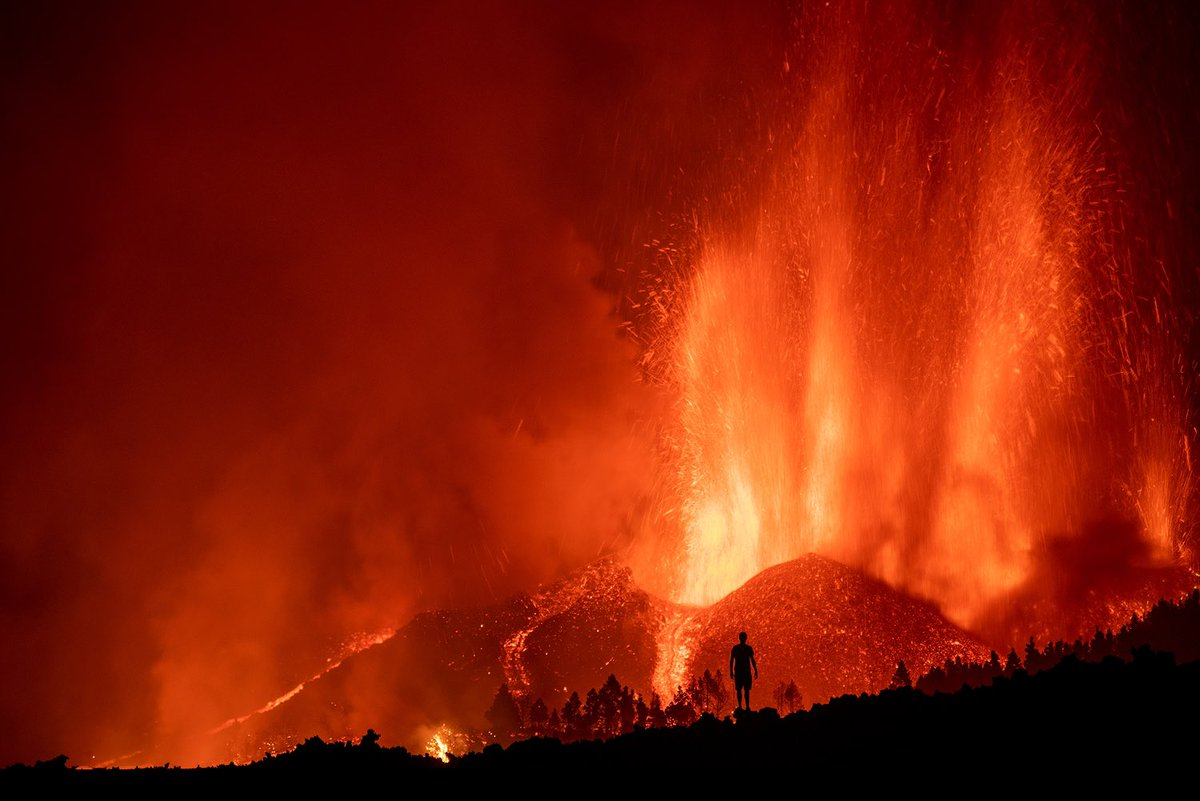
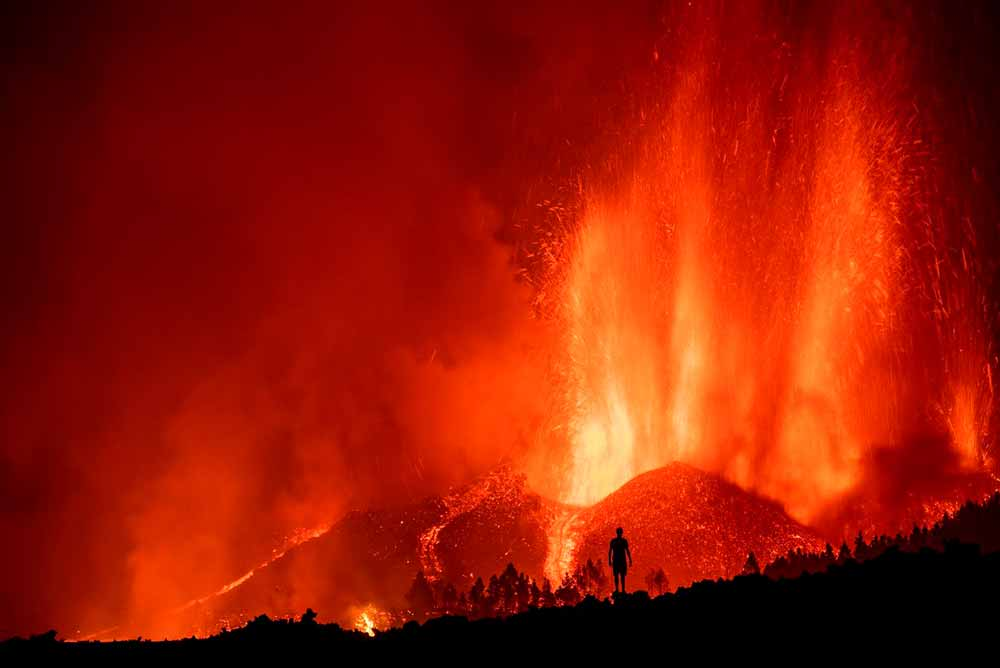
Añadida seccion login y optimizadas las imagenes

Changed region(s): [[0.031, 0.0, 1.0, 0.988], [0.403, 0.1796, 0.434, 0.2096]]

diff --git a/crowdfunding_lp/index.html b/crowdfunding_lp/index.html
@@ -11,12 +11,13 @@
     <h2>Somos dos alumnos de la Universidad Europea de Madrid. Nuestro objetivo es concienciar a la población de problemas en el mundo y, mediante recaudación colectiva, conseguir los fondos suficientes para aportarles solución</h2>
     <nav class="navPrincipal">
         <ul>
-            <li class="ratonMano"><a onclick="bajarFooter()">Contacto</a></li>
+            <li class="ratonMano"><a href="#login">Iniciar sesión</a></li>
+            <li class="ratonMano"><a href="#footer"">Contacto</a></li>
         </ul>
     </nav>
 </header>
 <body>
-    <img src="images/index-banner-ligero.jpg" class="banner">
+    <img src="images/index-banner.jpg" class="banner">
     <div class="proyectos">
         <div class="proyecto">
             <img src="images/image1.jpg">
@@ -50,9 +51,67 @@
                 <img class="foto_comentador" src="images/default-profile.jpg">
             </div>
             <div class="columna_comentario">
-                <p>Nombre del comentador 1</p>
-                <p>Texto del comentario 1</p>
+                <p>Nombre del comentador 2</p>
+                <p>Texto del comentario 2</p>
             </div>
+        </div>
+        <div class="comentario">
+            <div class="columna_foto">
+                <img class="foto_comentador" src="images/default-profile.jpg">
+            </div>
+            <div class="columna_comentario">
+                <p>Nombre del comentador 3</p>
+                <p>Texto del comentario 3</p>
+            </div>
+        </div>
+        <div class="comentario">
+            <div class="columna_foto">
+                <img class="foto_comentador" src="images/default-profile.jpg">
+            </div>
+            <div class="columna_comentario">
+                <p>Nombre del comentador 4</p>
+                <p>Texto del comentario 4</p>
+            </div>
+        </div>
+        <div class="comentario">
+            <div class="columna_foto">
+                <img class="foto_comentador" src="images/default-profile.jpg">
+            </div>
+            <div class="columna_comentario">
+                <p>Nombre del comentador 5</p>
+                <p>Texto del comentario 5</p>
+            </div>
+        </div>
+        <div class="comentario">
+            <div class="columna_foto">
+                <img class="foto_comentador" src="images/default-profile.jpg">
+            </div>
+            <div class="columna_comentario">
+                <p>Nombre del comentador 6</p>
+                <p>Texto del comentario 6</p>
+            </div>
+        </div>
+    </section>
+    <section class="login" id="login">
+        <div class="columnaLogin">
+            <h3>Inicia sesión para añadir un comentario</h3>
+            <form action="bienvenida.php" method="post">
+                Usuario: <input type="text" name="nombre"/>
+                <br><br>
+                Contraseña: <input type="text" name="contrasena"/>
+                <br><br>
+                <input class="botonForm" type="submit" value="Enviar"/>
+            </form>
+        </div>
+        <div class="columnaLogin">
+            <h3>¿No tienes cuenta? Registrate ahora</h3>
+            <form action="bienvenida.php" method="post">
+                Usuario: <input type="text" name="nombre"/>
+                <br><br>
+                Contraseña: <input type="text" name="contrasena"/>
+                <br><br>
+                <input class="botonForm" type="submit" value="Enviar"/>
+            </form>
         </div>
     </section>
 </body>

diff --git a/crowdfunding_lp/css/styleIndex.css b/crowdfunding_lp/css/styleIndex.css
@@ -1,7 +1,6 @@
 :root
 {
     --nuestroColor: rgb(140, 230, 190);
-    --otroColor: #929090;
 }
 
 body
@@ -27,22 +26,30 @@ h2
 .navPrincipal
 {
     background-color: var(--nuestroColor);
+    text-align: center;
+}
+
+.navPrincipal ul
+{   
+    margin: 0;
+    padding: 0;
 }
 
 .navPrincipal li
 {
-    margin-left: auto;
-    margin-right: auto;
-    text-align: center;
-    width: 20%;
-    padding-top: 5px;
-    padding-bottom: 5px;
-    list-style: none;
+    display: inline;
+}
+
+.navPrincipal a
+{
+    padding: 20vh 3vw;
+    color: black;
+    text-decoration: none;
 }
 
 .navPrincipal li:hover
 {
-    background-color: white;
+    background-color: #def1f8;
 }
 
 .ratonMano
@@ -52,7 +59,7 @@ h2
 
 .banner
 {
-    height: 50vh;
+    height: 400px;
     width: 100%;
     object-fit: cover;
 }
@@ -78,12 +85,12 @@ h2
     min-width: 250px;
     max-width: 250px;
     margin-top: 1vh;
-    margin-bottom: 1vh;
+    margin-bottom: 1.5vh;
 }
 
 .proyecto img
 {
-    height: 20vh;
+    height: 150px;
     width: 100%;
     object-fit: cover;
 }
@@ -95,7 +102,7 @@ h2
     background-color: var(--nuestroColor);
     text-decoration: none;
     width: 75%;
-    height: 5vh;
+    height: 35px;
 }
 
 .proyecto a
@@ -117,7 +124,7 @@ h2
 .comentario
 {
     display: flex;
-    border: #d7d7d7;
+    border: #e6e6e6;
     border-style: solid;
     border-width: 1px;
     background-color: white;
@@ -131,16 +138,41 @@ h2
 
 .foto_comentador
 {
-    width: 100%;
-   padding-left: 1vw;
-   padding-top: 1vw;
-   border-radius: 100%;
+    width: 80px;
+    padding-left: 1vw;
+    padding-top: 1vw;
+    border-radius: 100%;
 }
 
 .columna_comentario
 {
     padding-left: 3vw;
     flex: 8;
+}
+
+.login
+{
+    display: flex;
+    background-color: #efefef;
+    padding-bottom: 30px;
+    padding-left: 5vw;
+    padding-right: 5vw;
+}
+
+.columnaLogin
+{
+    flex: 1;
+    text-align: center;
+}
+
+.botonForm
+{
+    text-decoration: none;
+    color: black;
+    background-color: var(--nuestroColor);
+    text-decoration: none;
+    width: 25%;
+    height: 30px;
 }
 
 footer

diff --git a/crowdfunding_lp/js/principal.js b/crowdfunding_lp/js/principal.js
@@ -1,5 +1,5 @@
 let altura; // Guardar altura actual de la pantalla
-let suavizado = 96; // Entre 1-99, cuando mas alto mas smooth
+let suavizado = 96; // Entre 1-99.999999, cuando mas alto mas smooth
 
 function regresar() // La funcion onClick del boton regresar
 {
@@ -17,9 +17,4 @@ function subirPantalla() // Función recursiva que sube la pantalla gradualmente
 
         setTimeout(function() { subirPantalla(); }, 5); // Esperar unos milisegundos para que se siente como una transicion
     }
-}
-
-function bajarFooter()
-{
-    window.scrollTo(0,document.body.scrollHeight);
 }
